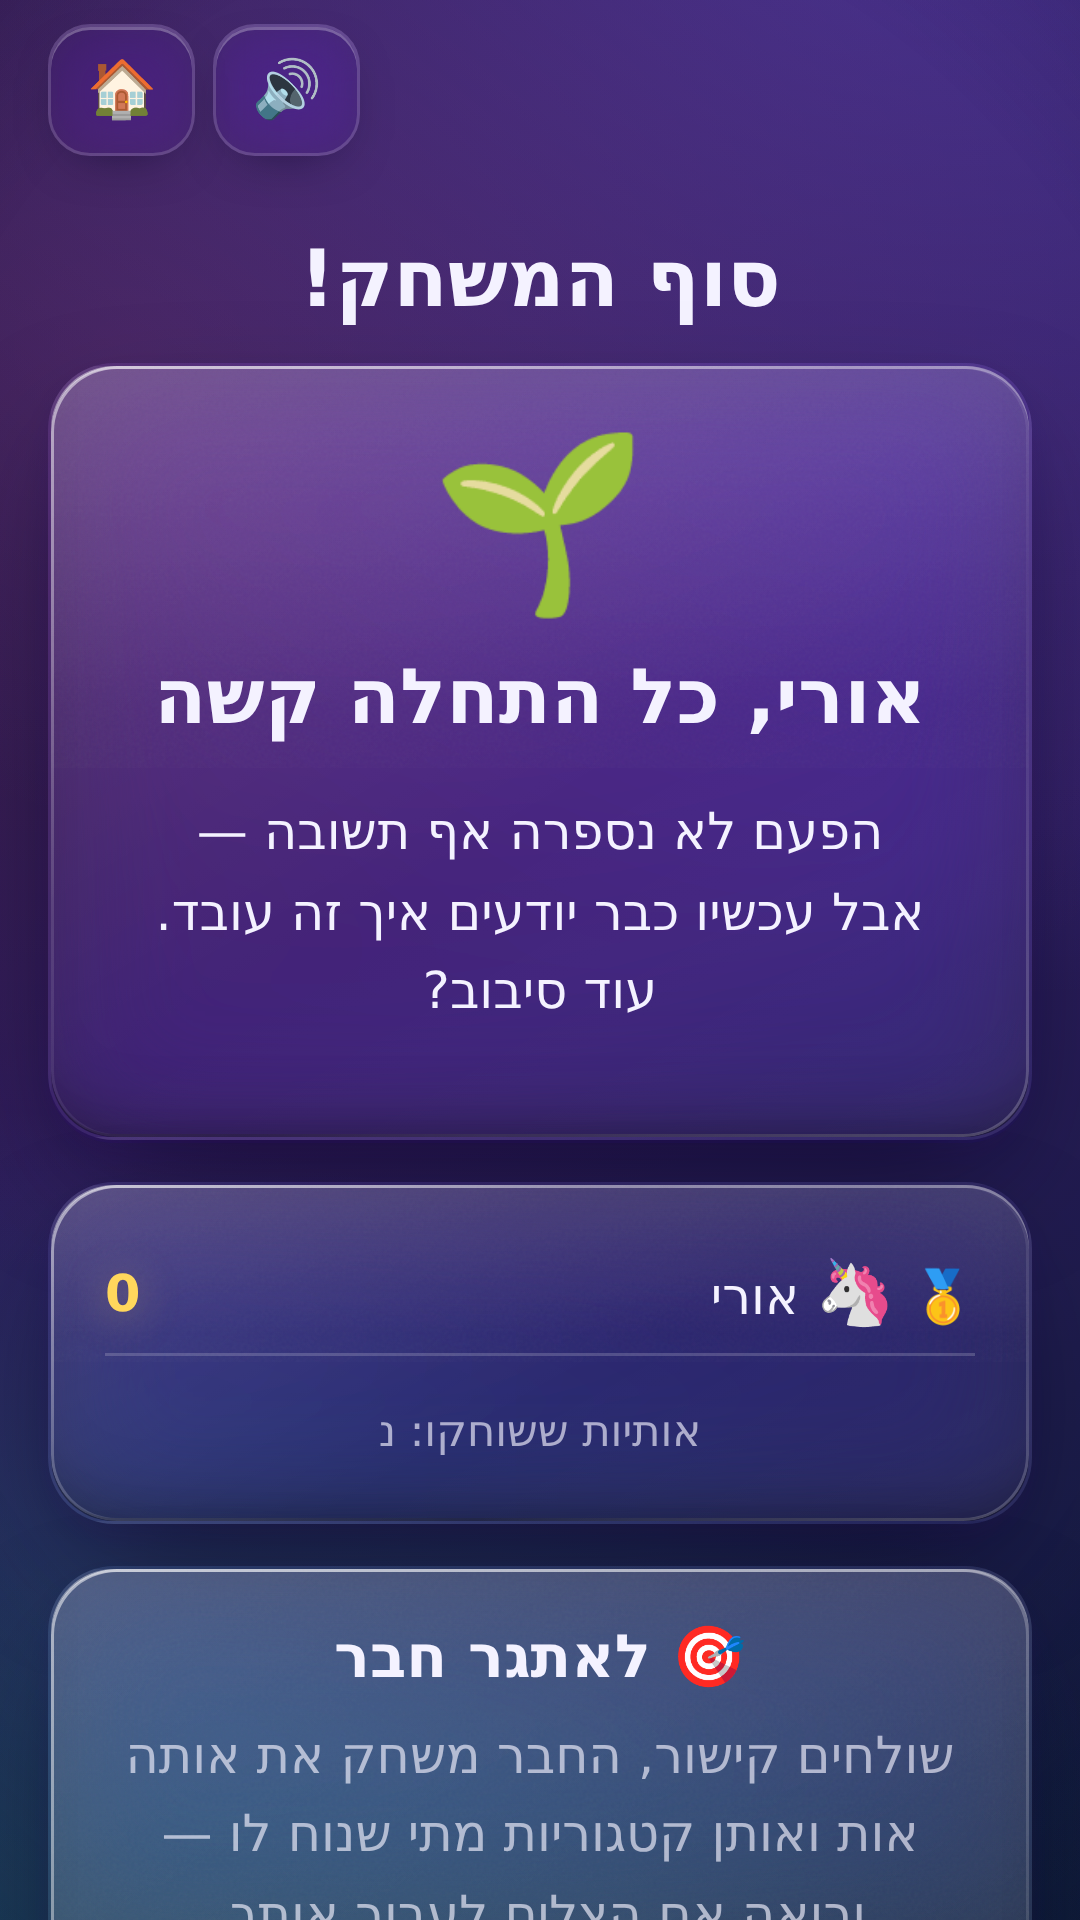
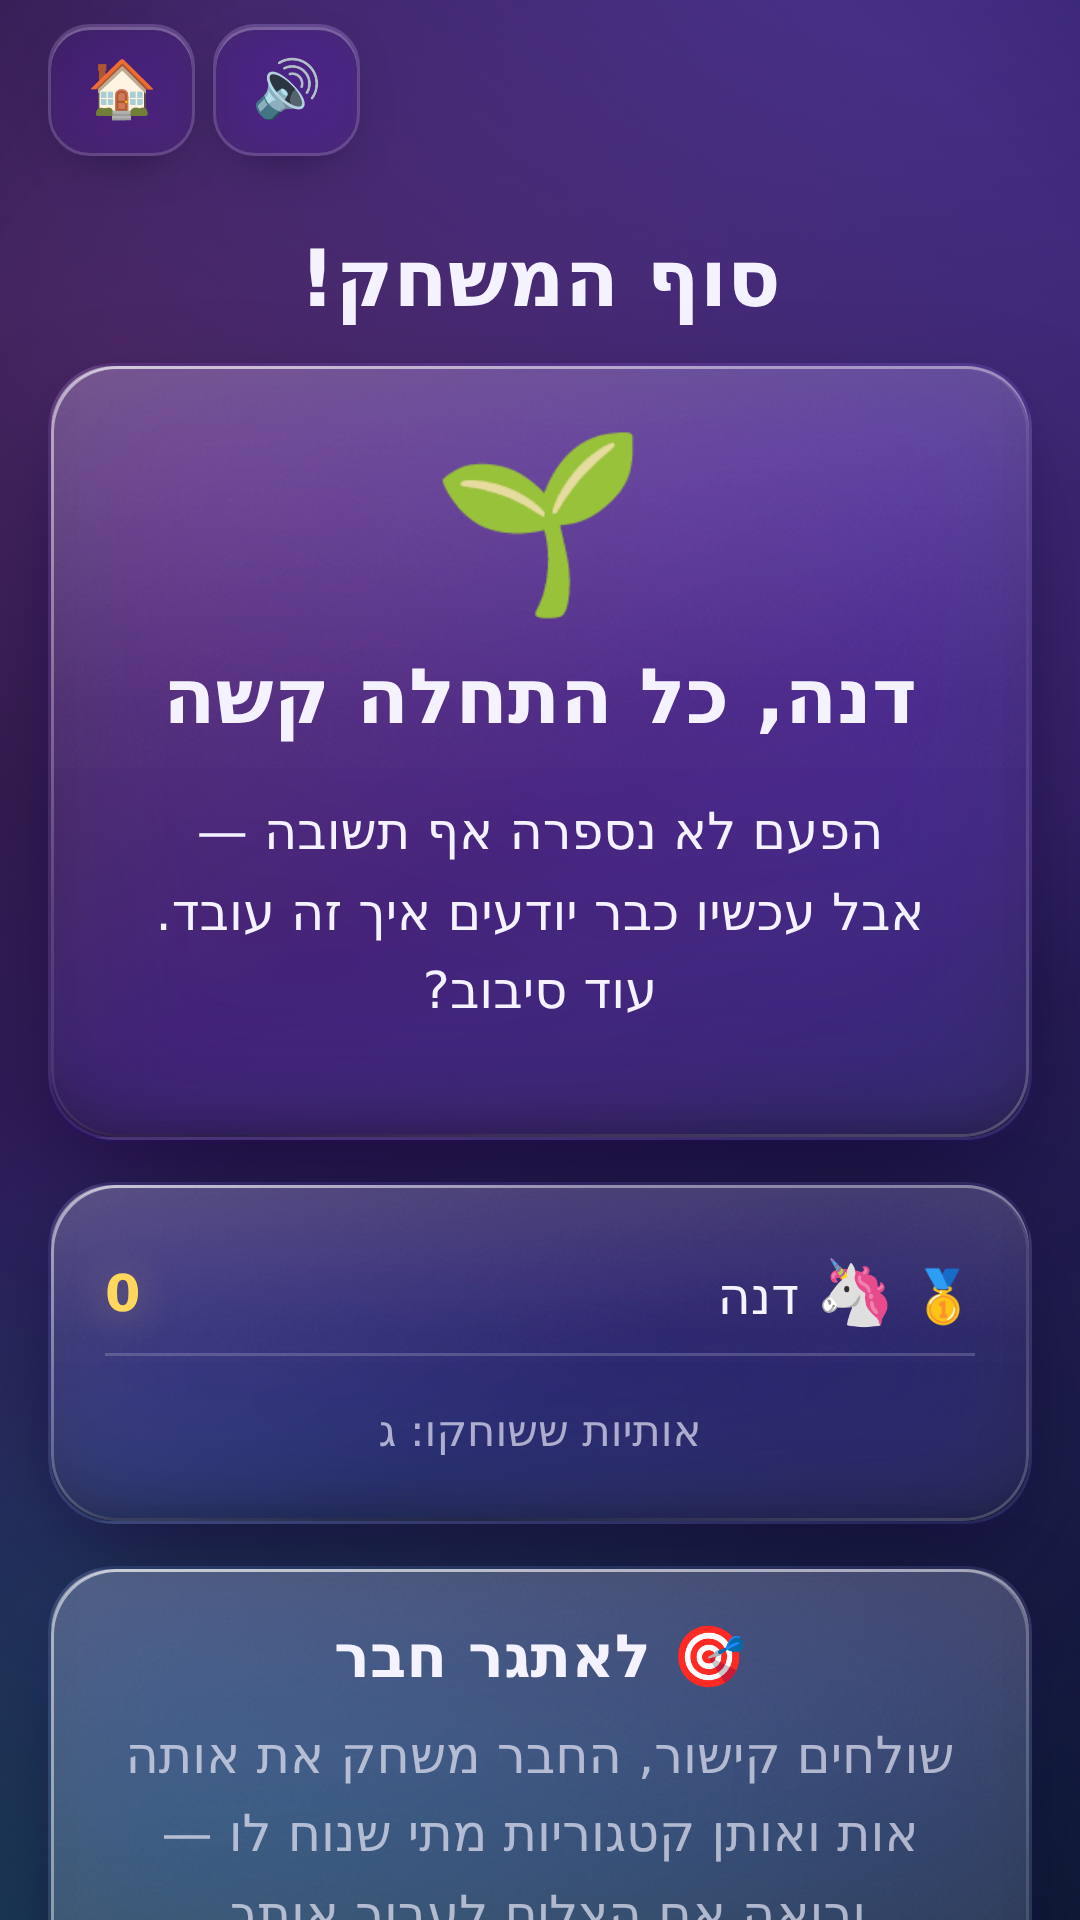
"מה חדש", כיתובים לצילומי החנות, ובאג בדיקה אמיתי
## "מה חדש" אחרי עדכון

הפיצ'ר הכי זול להוסיף הוא זה שכבר קיים ואיש לא גילה. משחק מתעדכן
בחנות בשקט, והמשתמש ממשיך לשחק בדיוק כמו קודם.

הכלל שמחזיק את זה: **התקנה חדשה לא מקבלת "מה חדש"** — אין "חדש"
ביחס לכלום, ולשחקן חדש יש ממילא את "איך משחקים". במקרה כזה נרשמת
הגרסה בשקט, וההודעה הבאה — זו שתהיה באמת חדשה עבורו — כן תוצג.

## כיתובים לצילומי החנות

בחנות רואים את הצילומים **לפני** שקוראים את התיאור, ולרוב במקום
התיאור. לחמשת הצילומים המומלצים נוצרת עכשיו גם גרסה עם רצועת
כיתוב, ברוחב מלא ובגופן גדול — כיתוב קטן בגודל אצבע פשוט לא נקרא.

הכיתוב נוצר בדפדפן ולא בספריית תמונות: כך העברית וכיוון ימין-לשמאל
יוצאים נכון בלי תלות נוספת.

אגב כך, הסקריפט בוחר עכשיו שם בכניסה ("דנה") כמו שחקן אמיתי —
קודם הצילומים הראו את תווית ברירת המחדל בכל פנייה.

## באג בדיקה שהתחזה לבאג במשחק

`spelling.spec.ts` חילצה את המילה שהמשחק הציע בהסרת כל תו שאינו
אות עברית — **כולל הרווח**. זה עבד לכל מילה אחת ונשבר על תשובה
משתי מילים: "חוף השנהב" הפך ל-"חוףהשנהב", והחיפוש בשורת התשובה לא
מצא כלום. המשחק התנהג נכון לגמרי; הבדיקה לא.

חמש הרצות רצופות ירוקות אחרי התיקון.

בדיקות: 624 יחידה, 91 E2E, כולן עוברות.

Claude-Session: https://claude.ai/code/session_01WQ6EdZR8YcjQEdSWWBSgME

Changed region(s): [[0.1528, 0.3438, 0.6722, 0.4062], [0.7028, 0.3438, 0.8556, 0.375], [0.6722, 0.6562, 0.7333, 0.6875]]

diff --git a/eretz-ir-go/e2e/onboarding.spec.ts b/eretz-ir-go/e2e/onboarding.spec.ts
@@ -88,3 +88,67 @@ test('❓ אפשר לדלג על ההסבר', async ({ page }) => {
   await page.getByRole('button', { name: 'דילוג' }).click();
   await expect(page.getByRole('button', { name: /משחק חדש/ })).toBeVisible();
 });
+
+
+/**
+ * "מה חדש" אחרי עדכון.
+ *
+ * הכלל שמחזיק את זה: **התקנה חדשה לא מקבלת "מה חדש"** — אין "חדש"
+ * ביחס לכלום, ולשחקן חדש יש ממילא את "איך משחקים". רק מי שכבר
+ * ראה גרסה קודמת מקבל את הרשימה.
+ */
+test('✨ התקנה חדשה לא מקבלת "מה חדש"', async ({ page }) => {
+  await page.goto('./');
+  await page.getByRole('button', { name: /בואו נשחק/ }).click();
+  await expect(page.getByRole('heading', { name: /מה חדש במשחק/ })).toHaveCount(0);
+});
+
+test('✨ מי שראה גרסה קודמת כן מקבל את הרשימה, פעם אחת', async ({ page }) => {
+  await page.goto('./');
+  await page.getByRole('button', { name: /בואו נשחק/ }).click();
+  await expect(page.getByRole('button', { name: /משחק חדש/ })).toBeVisible();
+
+  /**
+   * מדמים משתמש ותיק: גרסה ישנה שנשמרה, ומשחק אחד ששוחק. שני
+   * התנאים נדרשים — רשימת שינויים למי שעוד לא שיחק היא רעש.
+   */
+  await page.evaluate(async () => {
+    const db = await new Promise<IDBDatabase>((res, rej) => {
+      const r = indexedDB.open('eretz-ir-go');
+      r.onsuccess = () => res(r.result);
+      r.onerror = () => rej(r.error);
+    });
+    await new Promise<void>((res) => {
+      const tx = db.transaction(['settings', 'profiles'], 'readwrite');
+      tx.objectStore('settings').put({ key: 'whatsNewSeen', value: '0000.00' });
+      const store = tx.objectStore('profiles');
+      const all = store.getAll();
+      all.onsuccess = () => {
+        const p = all.result[0];
+        if (p) store.put({ ...p, gamesPlayed: 3 });
+      };
+      tx.oncomplete = () => res();
+    });
+  });
+
+  /**
+   * לשונית חדשה ולא `reload()`.
+   *
+   * ה-`addInitScript` של הבדיקה מוחק את מסד הנתונים **בכל טעינת
+   * דף**, כולל רענון — כלומר רענון היה מוחק בדיוק את המצב שהבדיקה
+   * הרגע הכינה. לשונית חדשה באותו הקשר חולקת את אותו IndexedDB
+   * ואינה נושאת את הסקריפט.
+   */
+  const second = await page.context().newPage();
+  await second.goto(page.url());
+  await second.getByRole('button', { name: /בואו נשחק/ }).click();
+  await expect(second.getByRole('heading', { name: /מה חדש במשחק/ })).toBeVisible();
+  await second.getByRole('button', { name: /מגניב/ }).click();
+
+  // ולא שוב באותה גרסה
+  const third = await page.context().newPage();
+  await third.goto(page.url());
+  await third.getByRole('button', { name: /בואו נשחק/ }).click();
+  await expect(third.getByRole('button', { name: /משחק חדש/ })).toBeVisible();
+  await expect(third.getByRole('heading', { name: /מה חדש במשחק/ })).toHaveCount(0);
+});

diff --git a/eretz-ir-go/src/screens/Home.tsx b/eretz-ir-go/src/screens/Home.tsx
@@ -12,6 +12,8 @@ import Artzi from '../components/Artzi';
 import { authAvailable, useAuth } from '../store/authStore';
 import { db, DEFAULT_PROFILE_NAME, getSetting, setSetting } from '../db/db';
 import HowToPlay from '../components/HowToPlay';
+import WhatsNewModal from '../components/WhatsNew';
+import { WHATS_NEW } from '../data/whatsNew';
 import { computeStreak, streakLabel, type StreakInfo } from '../lib/streak';
 import { useGame } from '../store/gameStore';
 import { hasPlayedBefore, planQuickPlay } from '../lib/quickPlay';
@@ -92,6 +94,32 @@ export default function Home() {
     setHowTo(true);
     setHowToSeen(true);
     void setSetting('howToSeen', '1');
+  };
+
+  /**
+   * "מה חדש" — פעם אחת אחרי עדכון, **ורק למי שכבר שיחק**.
+   * לשחקן חדש זו רשימת שינויים מגרסה שהוא לא הכיר; בשבילו יש
+   * "איך משחקים".
+   */
+  const [whatsNew, setWhatsNew] = useState(false);
+  useEffect(() => {
+    if (!hasPlayedBefore(activeProfile)) return;
+    void getSetting('whatsNewSeen').then((seen) => {
+      /**
+       * התקנה חדשה **לא** מקבלת "מה חדש": אין "חדש" ביחס לכלום.
+       * במקרה כזה נרשמת הגרסה הנוכחית בשקט, וה'מה חדש' הבא — זה
+       * שיהיה באמת חדש עבור המשתמש הזה — כן יוצג.
+       */
+      if (!seen) {
+        void setSetting('whatsNewSeen', WHATS_NEW.version);
+        return;
+      }
+      if (seen !== WHATS_NEW.version) setWhatsNew(true);
+    });
+  }, [activeProfile]);
+  const closeWhatsNew = () => {
+    setWhatsNew(false);
+    void setSetting('whatsNewSeen', WHATS_NEW.version);
   };
 
   const [nameDraft, setNameDraft] = useState('');
@@ -213,6 +241,7 @@ export default function Home() {
       </div>
 
       {howTo && <HowToPlay onClose={() => setHowTo(false)} />}
+      {whatsNew && !howTo && <WhatsNewModal onClose={closeWhatsNew} />}
 
       {/* ההזמנה מופיעה פעם אחת, עד שנכנסים להסבר */}
       {!howToSeen && (

diff --git a/eretz-ir-go/src/data/whatsNew.ts b/eretz-ir-go/src/data/whatsNew.ts
@@ -1,0 +1,34 @@
+/**
+ * "מה חדש" — מה נוסף בעדכון האחרון.
+ *
+ * ## למה זה קיים
+ *
+ * הפיצ'ר הכי זול להוסיף הוא זה שכבר קיים ואיש לא גילה. משחק מתעדכן
+ * בחנות בשקט: המשתמש מקבל גרסה חדשה ולא יודע שהשתנה בה משהו, ולכן
+ * ממשיך לשחק בדיוק כמו קודם. מסך אחד קצר אחרי עדכון מחזיר את
+ * ההשקעה של כל מה שנבנה.
+ *
+ * ## הכללים
+ *
+ * 1. **לא לשחקן חדש.** מי שנכנס בפעם הראשונה מקבל את "איך משחקים",
+ *    ולא רשימת שינויים מגרסה שהוא לא הכיר.
+ * 2. **מה שהילד ירגיש, לא מה שנכתב בקוד.** "תיקנו באג בניווט" אינו
+ *    שורה שמעניינת ילד; "כפתור החזרה של הטלפון עובד" כן.
+ * 3. **עד ארבע שורות.** רשימה ארוכה לא נקראת.
+ */
+
+export interface WhatsNew {
+  /** מזהה הגרסה. שינוי שלו הוא מה שמפעיל את המסך. */
+  version: string;
+  items: { icon: string; text: string }[];
+}
+
+export const WHATS_NEW: WhatsNew = {
+  version: '2026.08',
+  items: [
+    { icon: '▶', text: 'כפתור "שוב, כמו קודם" — אותן קטגוריות והגדרות, ישר לאות' },
+    { icon: '🧩', text: 'הפאזלים גדולים יותר, ורואים בהם את התמונה שמתגלה' },
+    { icon: '🎖', text: 'לכל הישג יש עכשיו מד התקדמות — כמה נשאר' },
+    { icon: '⬅', text: 'כפתור החזרה של הטלפון חוזר מסך אחד, במקום לסגור את המשחק' }
+  ]
+};

diff --git a/eretz-ir-go/e2e/spelling.spec.ts b/eretz-ir-go/e2e/spelling.spec.ts
@@ -72,7 +72,18 @@ test('✍ תשובה שנפסלה על כתיב מתקבלת בלחיצה, ו
    */
   const accept = page.getByRole('button', { name: /כן, התכוונתי/ });
   await expect(accept).toBeVisible({ timeout: 20_000 });
-  const suggested = (await accept.innerText()).replace(/[^א-ת]/g, '').replace('כןהתכוונתיל', '');
+  /**
+   * חילוץ המילה שהוצעה — **בלי להסיר רווחים**.
+   *
+   * הגרסה הקודמת ניקתה כל תו שאינו אות עברית, כולל הרווח, ואז
+   * הרכיבה מחדש את הקידומת. זה עבד לכל מילה אחת ונשבר על תשובה
+   * משתי מילים: "חוף השנהב" הפך ל-"חוףהשנהב", ואז החיפוש בשורת
+   * התשובה לא מצא כלום — בזמן שהמשחק התנהג נכון לגמרי.
+   */
+  const suggested = ((await accept.innerText()).match(/התכוונתי\s*ל\s*(.+?)\s*[?!]?$/s)?.[1] ?? '')
+    .replace(/["'׳״]/g, '')
+    .trim();
+  expect(suggested, 'לא הצלחנו לחלץ את המילה שהוצעה').not.toBe('');
 
   /**
    * `.round-score` ולא `.gold`: האחרונה היא מחלקת עזר שמופיעה גם

diff --git a/eretz-ir-go/src/components/WhatsNew.tsx b/eretz-ir-go/src/components/WhatsNew.tsx
@@ -1,0 +1,32 @@
+import Modal from './Modal';
+import { WHATS_NEW } from '../data/whatsNew';
+
+/**
+ * מוצג פעם אחת אחרי עדכון, ורק למי שכבר שיחק. ראו `whatsNew.ts`
+ * להסבר למה הוא קיים ומה נכנס לרשימה.
+ */
+export default function WhatsNew({ onClose }: { onClose: () => void }) {
+  return (
+    <Modal onClose={onClose}>
+      <div className="center">
+        <div style={{ fontSize: '2.6rem' }} aria-hidden>
+          ✨
+        </div>
+        <h2 style={{ margin: '4px 0 10px' }}>מה חדש במשחק</h2>
+
+        <ul className="whats-new">
+          {WHATS_NEW.items.map((item) => (
+            <li key={item.text}>
+              <span aria-hidden>{item.icon}</span>
+              <span>{item.text}</span>
+            </li>
+          ))}
+        </ul>
+
+        <button className="btn-primary" style={{ marginTop: 12 }} onClick={onClose}>
+          מגניב, בואו נשחק
+        </button>
+      </div>
+    </Modal>
+  );
+}

diff --git a/eretz-ir-go/src/styles/global.css b/eretz-ir-go/src/styles/global.css
@@ -1780,3 +1780,19 @@ body::after {
   white-space: pre-wrap;
   overflow-wrap: anywhere;
 }
+
+
+/* רשימת "מה חדש": שורה לכל שינוי, האייקון בעמודה קבועה כדי
+   שהטקסט יתחיל באותו מקום בכל השורות */
+.whats-new { list-style: none; margin: 0; padding: 0; text-align: start; }
+.whats-new li {
+  display: flex;
+  gap: 10px;
+  align-items: flex-start;
+  padding: 7px 0;
+  font-weight: 600;
+  line-height: 1.45;
+  border-bottom: 1px solid var(--glass-border);
+}
+.whats-new li:last-child { border-bottom: none; }
+.whats-new li > span:first-child { font-size: 1.3rem; flex: 0 0 auto; }

diff --git a/eretz-ir-go/store/LISTING.md b/eretz-ir-go/store/LISTING.md
@@ -108,3 +108,19 @@ npm run build && node scripts/store-screenshots.mjs
 **לבחור מהם 4–8 להעלאה.** ההמלצה: `02-home`, `05-letter-wheel`,
 `07-board`, `08-round-results`, `10-album`. אלה מראים בסדר הנכון מה
 המשחק עושה — נכנסים, מגרילים אות, ממלאים, מקבלים ניקוד, ואוספים.
+
+**להעלות את גרסאות ה-`-caption`.** לחמשת המומלצים נוצרת גם גרסה עם
+רצועת כיתוב (`02-home-caption.png` וכו'). בחנות רואים את הצילומים
+**לפני** שקוראים את התיאור, ולרוב במקום התיאור — ולכן המשפט שעל
+הצילום הוא מה שנקרא בפועל. הכיתובים:
+
+| צילום | כיתוב |
+| --- | --- |
+| `02-home` | הכול מתחיל בלחיצה אחת |
+| `05-letter-wheel` | מגרילים אות — וכולם מתחילים ממנה |
+| `07-board` | ארצי נותן רמזים, לא תשובות |
+| `08-round-results` | הניקוד מיד, בלי לריב מי צודק |
+| `10-album` | כל מילה שגיליתם נשארת אצלכם |
+
+הצילומים מראים שחקנית בשם "דנה" — הסקריפט בוחר שם בכניסה, כמו
+שחקן אמיתי, כדי שלא תופיע בהם תווית ברירת המחדל.
